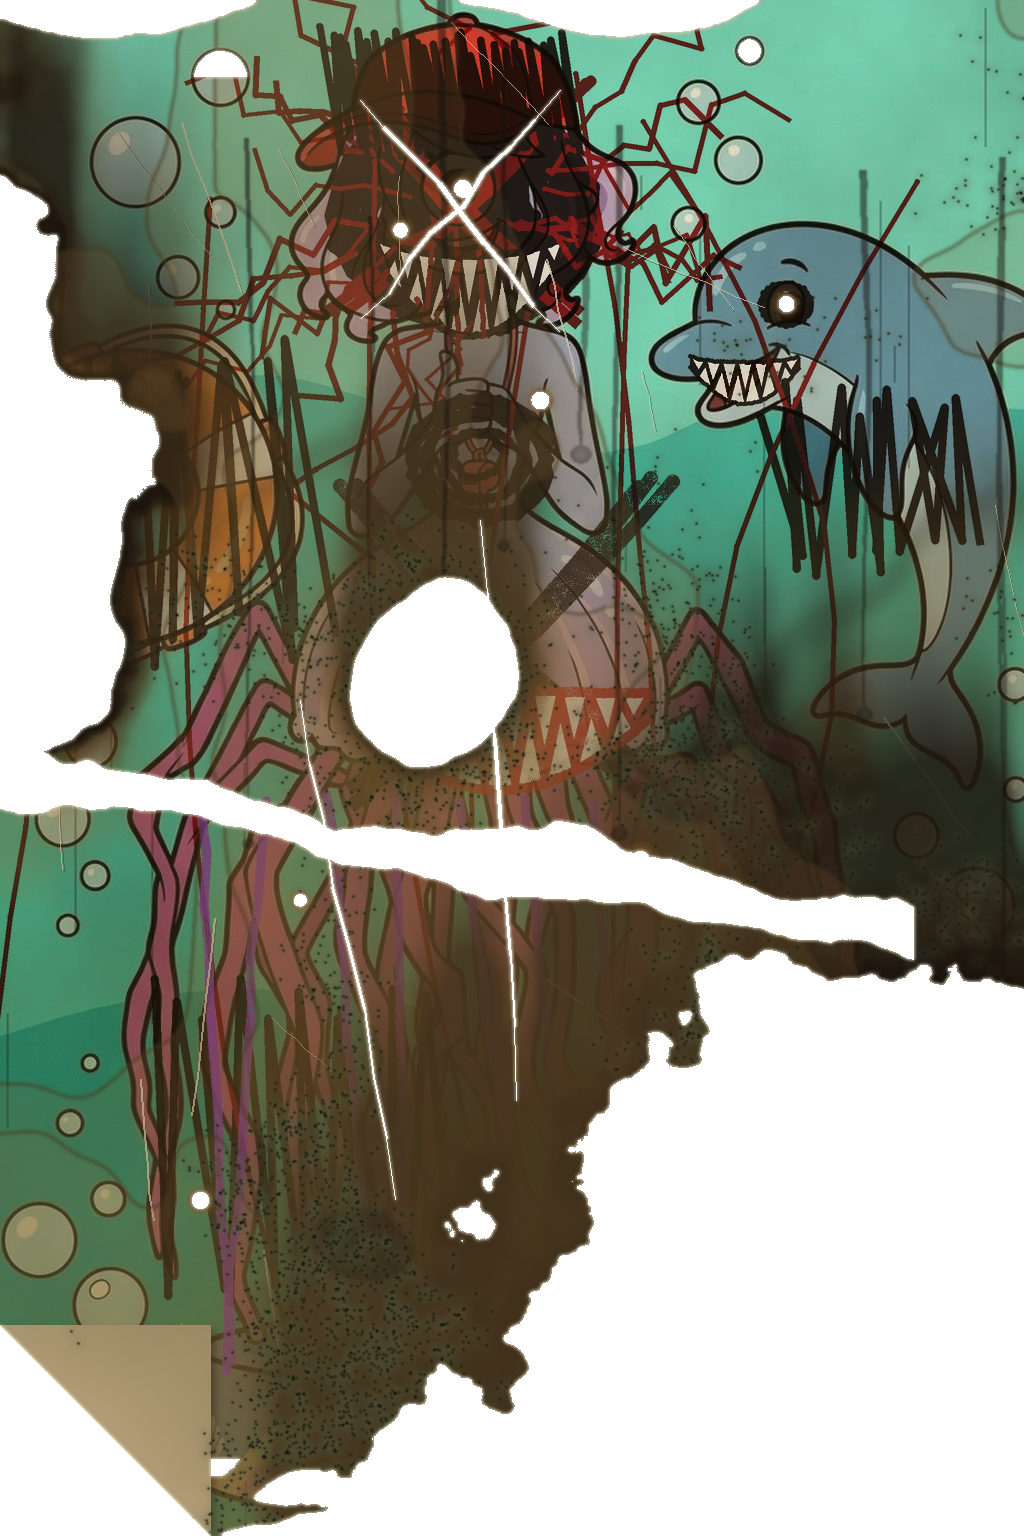
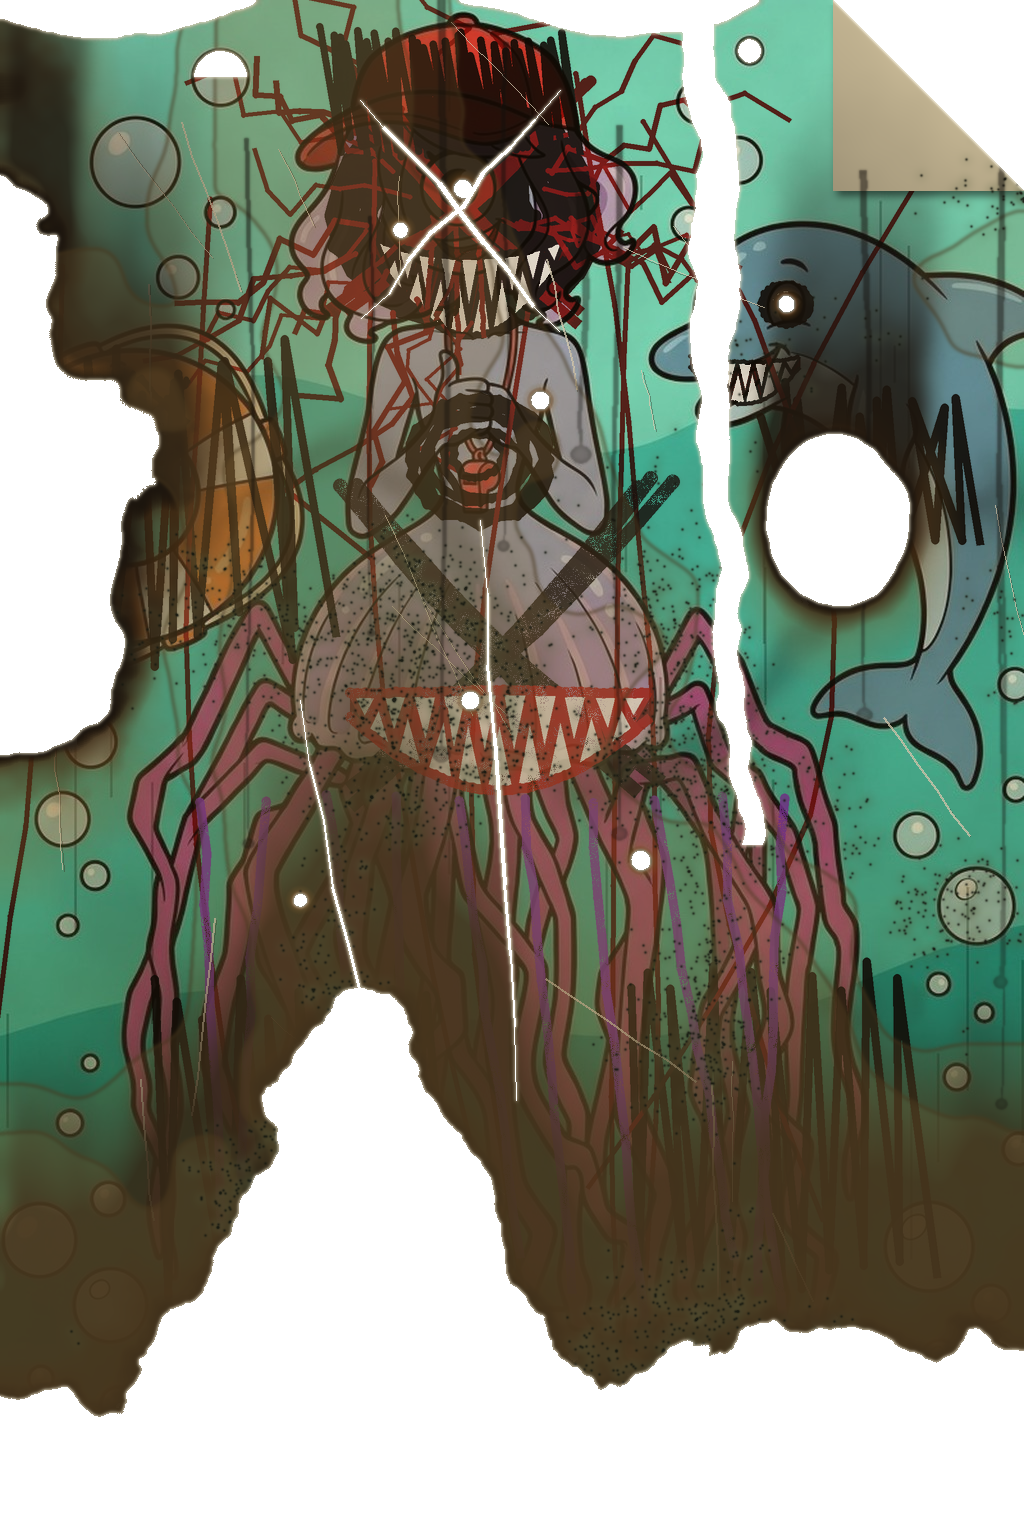
Telo della bagnina diverso da quello dell'arcobaleno appeso accanto (ricontrollo di grafica-2: strappo di traverso e pezzo mancante in basso con la stessa sagoma): fondo bruciato a lingue, strappo verticale dall'alto lungo il delfino, buco tondo sul delfino, angolo in alto a destra ripiegato; solo l
Claude-Session: https://claude.ai/code/session_01T7gXU9URJunXdQxrRAzoeN

diff --git a/assets_src/ambienti_interni/poster/rovina.py b/assets_src/ambienti_interni/poster/rovina.py
@@ -748,9 +748,9 @@ def telo_bagnina():
     """Il telo con Jilly bagnina, a destra della statua (sala_cartellone_mascotte_1): la faccia annerita sotto il
     cappellino cancellato, l'occhio a spirale con la croce rossa, il ghigno coi denti, il rosso che cola, il delfino
     col ghigno e l'occhio annerito, il salvagente con gli occhi crocettati; croci nere, un ghigno rosso e righe viola
-    a pastello sulla campana e sui tentacoli; tagli di coltello, due bruciature grandi coi buchi (dal basso a destra e
-    dal bordo sinistro sul salvagente), un buco tondo bruciato sulla campana, sette buchi di sigaretta, uno strappo
-    grosso, l'angolo in basso a sinistra ripiegato, fuliggine, acqua e muffa."""
+    a pastello sulla campana e sui tentacoli; tagli di coltello, due bruciature grandi coi buchi (il fondo bruciato a
+    lingue e dal bordo sinistro sul salvagente), un buco tondo bruciato sul delfino, sette buchi di sigaretta, uno strappo
+    verticale dall'alto, l'angolo in alto a destra ripiegato, fuliggine, acqua e muffa."""
     src = Image.open(os.path.join(SALA_SRC, 'cartellone_bagnino_col.jpg')).convert('RGB')
     W, H = src.size
     a = f32(src)
@@ -791,22 +791,27 @@ def telo_bagnina():
     for (p0, p1, lw, s) in (((360, 100), (560, 330), 5, 306), ((560, 90), (360, 320), 4, 307),
                             ((480, 520), (520, 1100), 4, 308), ((300, 700), (400, 1200), 3, 309)):
         a, alfa = taglio(alfa, a, p0, p1, lw, s)
+    # (diversa dal telo dell'arcobaleno appeso accanto, ricontrollo di grafica-2 del 30 ottobre: lì lo strappo è di traverso
+    # a metà, la bruciatura grande sale dall'angolo in basso e il buco tondo è al centro; qui il fondo bruciato a lingue,
+    # lo strappo verticale dall'alto, il buco sul delfino e l'angolo ripiegato in alto)
     n = blob((H, W), 310, 5) * 0.65 + blob((H, W), 311, 18) * 0.35
-    dist = np.hypot((xx - W * 0.85) / W, (yy - H * 1.06) / H)
-    a, alfa = bruciatura(a, alfa, 1 - dist * 1.3 + (n - 0.5) * 0.55, 0.42, 0.18, 312, fuliggine=2.4, verso=(-0.1, -1))
+    lingua = np.exp(-((xx - W * 0.36) / (W * 0.14)) ** 2) * 0.3
+    campo = (yy / H - 0.75) * 3.2 + lingua * 2.2 + (n - 0.5) * 0.7
+    a, alfa = bruciatura(a, alfa, campo, 0.42, 0.18, 312, fuliggine=2.4, verso=(0.05, -1))
     dist2 = np.hypot((xx - W * -0.03) / W * 1.2, (yy - H * 0.28) / H * 0.85)
     a, alfa = bruciatura(a, alfa, 1 - dist2 * 2.8 + (blob((H, W), 313, 7) - 0.5) * 0.6, 0.48, 0.13, 314, fuliggine=1.2,
                          verso=(0.15, -1))
-    d3 = np.hypot((xx - 430) / 95, (yy - 690) / 105)
+    d3 = np.hypot((xx - 830) / 70, (yy - 520) / 85)
     a, alfa = bruciatura(a, alfa, 1 - d3 * 0.6 + (blob((H, W), 315, 8) - 0.5) * 0.35, 0.45, 0.2, 316, fuliggine=1.4,
                          verso=(0.1, -1))
-    a, alfa = buchi_sigaretta(a, alfa, [(ex + 6, ey + 2), (400, 230), (540, 400), (786, 304), (300, 900), (640, 860), (200, 1200)],
+    a, alfa = buchi_sigaretta(a, alfa, [(ex + 6, ey + 2), (400, 230), (540, 400), (786, 304), (300, 900), (640, 860), (470, 700)],
                               [9, 7, 8, 8, 7, 9, 8], 317)
+    # strappo verticale dal bordo in alto, giù lungo il delfino fino a metà (la carta a destra resta unita in basso)
     ns = blob((H, W), 318, 14)
-    linea_y = 770 + xx * 0.18 + (ns - 0.5) * 50
-    larga = 14 + 30 * blob((H, W), 319, 6)
-    alfa = alfa * ~((np.abs(yy - linea_y) < larga) & (xx < W - 110))
-    a, alfa = angolo_ripiegato(a, alfa, 'bs', 210, ombra=0.55, seme=320)
+    linea_x = 700 + yy * 0.05 + (ns - 0.5) * 46
+    larga = 10 + 26 * blob((H, W), 319, 6) * (1 - yy / (H * 0.55))
+    alfa = alfa * ~((np.abs(xx - linea_x) < larga) & (yy < 0.55 * H))
+    a, alfa = angolo_ripiegato(a, alfa, 'ad', 190, ombra=0.55, seme=320)
     a = macchie_acqua(a, blob((H, W), 321, 3) + np.linspace(0, 1, H)[:, None] * 0.45 - 0.05, (0.62, 0.74))
     a = muffa(a, np.clip((blob((H, W), 322, 5) + np.linspace(0, 1, H)[:, None] * 0.4 - 0.7) * 4, 0, 1), 323, 0.02)
     a = colature(a, alfa, 9, 324, forza=0.4, colore=(0.1, 0.08, 0.06), da_y=0.0)

diff --git a/docs/tecnico/teli_sala_rovinati/LEGGIMI.md b/docs/tecnico/teli_sala_rovinati/LEGGIMI.md
@@ -39,12 +39,15 @@ Le texture le fa `assets_src/ambienti_interni/poster/rovina.py` (`telo_arcobalen
 - A pastello: croci nere, un ghigno rosso sulla campana, righe viola sui tentacoli.
 - Tagli di coltello in croce.
 - Bruciature:
-  - due grandi coi buchi, dal basso a destra e dal bordo sinistro sul salvagente;
-  - un buco tondo bruciato sulla campana;
+  - il fondo bruciato a lingue, con una lingua più alta a sinistra;
+  - una dal bordo sinistro sul salvagente;
+  - un buco tondo bruciato sul delfino;
   - sette buchi di sigaretta.
-- Strappi e sporco: uno strappo grosso, l'angolo in basso a sinistra ripiegato, fuliggine, acqua e muffa.
+- Strappi e sporco: uno strappo verticale dal bordo in alto, giù lungo il delfino; l'angolo in alto a destra ripiegato; fuliggine, acqua e muffa.
 
-Gli scarabocchi sono solo disegni, senza scritte. Manca circa il 28% della carta.
+I due teli sono appesi vicini, quindi hanno strappi e bruciature diverse. Con la prima versione grafica-2 aveva visto lo strappo di traverso e il pezzo mancante in basso uguali nei due, e la bagnina è stata rifatta.
+
+Gli scarabocchi sono solo disegni, senza scritte. Manca circa il 27% della carta dell'arcobaleno e il 26% della bagnina.
 
 ## Nel gioco
 
@@ -73,7 +76,9 @@ Script: `godot/proposte/poster_sala/scatti_teli.gd`.
 | `1_arrivo_prima_dopo.jpg` | dall'ingresso, i due teli, i due teli col campo stretto |
 | `2_lampione_prima_dopo.jpg` | lo stesso col lampione acceso (sui teli cambia poco) |
 | `3_tecnico_torcia_prima_dopo.jpg` | **solo tecnico**: una torcia che nel gioco non c'è, per vedere i buchi e i bordi sulla lamiera |
-| `4_texture_prima_dopo.jpg` | le texture piatte, prima e dopo, coi buchi sul grigio |
+| `4_texture_prima_dopo.jpg` | le texture piatte, prima e dopo, coi buchi sul grigio (la bagnina rifatta) |
+
+**I fogli 1-3 hanno la prima versione della bagnina.** È rifatta solo la texture, e la luce non cambia.
 
 **Cosa si vede nel gioco.** La sala all'inizio è buia, e anche prima i teli erano scuri. Il faretto caldo di ognuno illumina il centro, e lì ora si vedono il buco bruciato sul petto e la croce coi denti rossi. Il resto del telo si intravede appena.
 
